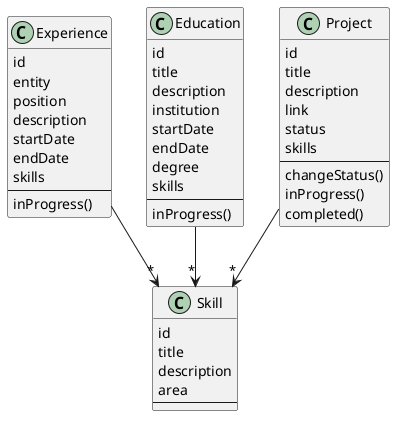
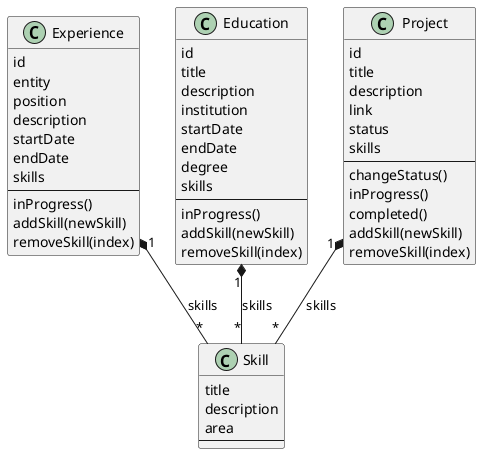
feat: Documentation creation and enhancement

Changed region(s): [[0.3275, 0.0, 0.9826, 0.9811], [0.0, 0.0307, 0.3275, 0.5825]]

diff --git a/backend/README.md b/backend/README.md
@@ -1,0 +1,143 @@
+# Curriculum Vitae API
+
+A REST API for managing professional experience, education, and projects. Built with Node.js, Express 5, MongoDB, and Mongoose.
+
+[Project overview](../README.md) · [Class diagram source](documentation/classDiagram.puml) · [Document schema source](documentation/documentSchema.puml)
+
+## Requirements
+
+- Node.js and npm
+- MongoDB running locally, or a MongoDB connection URI
+
+## Install and run
+
+Run these commands from the `backend/` directory:
+
+```bash
+npm install
+npm run dev
+```
+
+The development server watches for file changes. For a regular start, use `npm start`.
+
+By default, the API listens on port `3000` and connects to `mongodb://127.0.0.1:27017/cv`. Configure either value through environment variables:
+
+```bash
+PORT=4000 MONGODB_URI="mongodb://127.0.0.1:27017/cv" npm run dev
+```
+
+PowerShell:
+
+```powershell
+$env:PORT = "4000"
+$env:MONGODB_URI = "mongodb://127.0.0.1:27017/cv"
+npm run dev
+```
+
+The application reads these values from the process environment; it does not automatically load a `.env` file.
+
+Check the health endpoint:
+
+```bash
+curl http://localhost:3000/health
+```
+
+```json
+{"status":"OK"}
+```
+
+## API
+
+All endpoints use JSON request and response bodies where applicable. The API has no version prefix.
+
+| Resource | List | Get one | Create | Replace | Delete |
+| --- | --- | --- | --- | --- | --- |
+| Education | `GET /education` | `GET /education/:id` | `POST /education` | `PUT /education/:id` | `DELETE /education/:id` |
+| Experience | `GET /experiences` | `GET /experiences/:id` | `POST /experiences` | `PUT /experiences/:id` | `DELETE /experiences/:id` |
+| Projects | `GET /projects` | `GET /projects/:id` | `POST /projects` | `PUT /projects/:id` | `DELETE /projects/:id` |
+| Health | `GET /health` | — | — | — | — |
+
+Collection endpoints return lists. Creating a resource responds with `201` and its `id`. `PUT` replaces the full resource.
+
+### Required fields
+
+| Resource | Required fields |
+| --- | --- |
+| Education | `title`, `description`, `institution`, `startDate`, `degree`, `skills` |
+| Experience | `entity`, `position`, `description`, `startDate`, `skills` |
+| Project | `title`, `description`, `link`, `status`, `skills` |
+
+Education and experience dates use `YYYY-MM-DD`; `endDate` is optional. Each `skills` item is an object containing `title`, `description`, and `area`.
+
+Supported education degrees are `bachelor`, `associate`, `master`, and `doctoral`. Supported project statuses are `In Progress` and `Completed`.
+
+Example project request:
+
+```bash
+curl -X POST http://localhost:3000/projects \
+  -H 'Content-Type: application/json' \
+  -d '{
+    "title": "Portfolio API",
+    "description": "An API for exploring and maintaining my professional journey.",
+    "link": "https://example.com",
+    "status": "In Progress",
+    "skills": [
+      {
+        "title": "Node.js",
+        "description": "Backend service development.",
+        "area": "Backend"
+      }
+    ]
+  }'
+```
+
+## Project structure
+
+```text
+src/
+  config/        Database connection
+  controllers/   HTTP request handling
+  domain/        Domain entities
+  errors/        Application errors
+  middlewares/   Async and error handling
+  persistence/   Mongoose models and schemas
+  repositories/  Data access
+  routers/       HTTP routes
+  services/      Application logic
+  utils/         Shared utilities
+  validators/    Request validation
+```
+
+The application is assembled in `app.js`. `index.js` connects to MongoDB and starts the HTTP server.
+
+## Data model diagrams
+
+### MongoDB document schema
+
+![MongoDB document schema](documentation/documentSchema.png)
+
+The three top-level collections contain education, experience, and project documents. Each document has MongoDB's `_id` and Mongoose's `__v`; the numeric `id` is an additional application field. Skills are embedded subdocuments with no `_id` of their own.
+
+### Domain class diagram
+
+![Domain class diagram](documentation/classDiagram.png)
+
+## Tests
+
+```bash
+npm test
+```
+
+Integration tests exercise the HTTP routes with mocked repositories, so they do not require a live MongoDB connection.
+
+## Security
+
+The API does not implement authentication or authorization for write operations. It also enables CORS without an origin restriction. Add access controls and configure an explicit CORS policy before exposing it beyond a trusted environment.
+
+## Available scripts
+
+| Command | Description |
+| --- | --- |
+| `npm start` | Start the server |
+| `npm run dev` | Start the server in watch mode |
+| `npm test` | Run the test suite |
